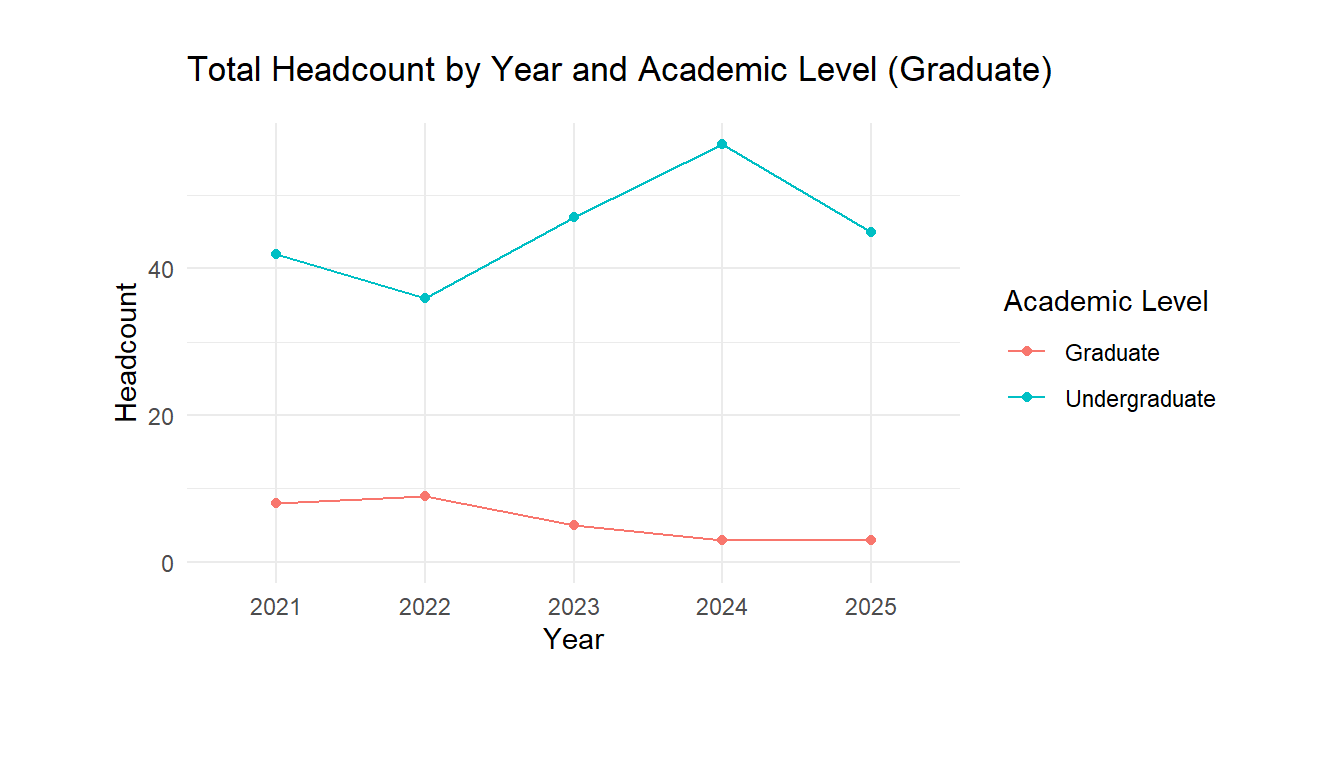
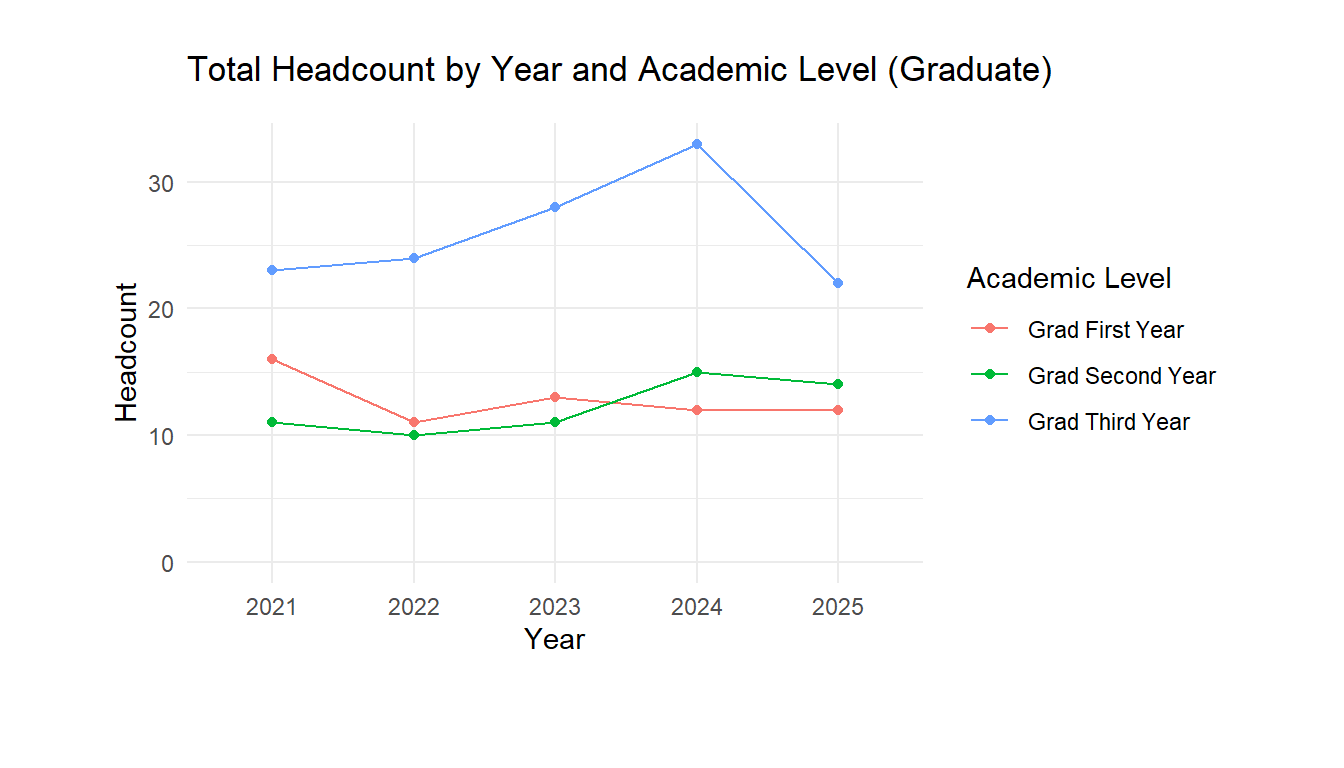
publish to docs/

diff --git a/docs/Undergraduate.html b/docs/Undergraduate.html
@@ -216,7 +216,7 @@ ul.task-list li input[type="checkbox"] {
 <div class="cell" data-dplyr.summarise.inform="false">
 <div class="cell-output-display">
 <table class="table caption-top table-sm table-striped small" data-quarto-postprocess="true">
-<caption>Enrollments Summary Table for Upcoming and Previous Semesters (Campus: Main Campus )</caption>
+<caption>Enrollments Summary Table for Upcoming and Previous Semesters (Campus: Neverland University )</caption>
 <colgroup>
 <col style="width: 14%">
 <col style="width: 14%">
@@ -229,50 +229,74 @@ ul.task-list li input[type="checkbox"] {
 <thead>
 <tr class="header">
 <th data-quarto-table-cell-role="th" style="text-align: left; empty-cells: hide; border-bottom: hidden;"></th>
-<th colspan="3" data-quarto-table-cell-role="th" style="text-align: center; border-bottom: hidden; padding-bottom: 0; padding-left: 3px; padding-right: 3px;"><div style="border-bottom: 1px solid #ddd; padding-bottom: 5px; ">
+<th colspan="2" data-quarto-table-cell-role="th" style="text-align: center; border-bottom: hidden; padding-bottom: 0; padding-left: 3px; padding-right: 3px;"><div style="border-bottom: 1px solid #ddd; padding-bottom: 5px; ">
 Headcount
 </div></th>
-<th colspan="3" data-quarto-table-cell-role="th" style="text-align: center; border-bottom: hidden; padding-bottom: 0; padding-left: 3px; padding-right: 3px;"><div style="border-bottom: 1px solid #ddd; padding-bottom: 5px; ">
+<th data-quarto-table-cell-role="th" style="text-align: center; border-bottom: hidden; padding-bottom: 0; padding-left: 3px; padding-right: 3px;"><div style="border-bottom: 1px solid #ddd; padding-bottom: 5px; ">
+Percent
+</div></th>
+<th colspan="2" data-quarto-table-cell-role="th" style="text-align: center; border-bottom: hidden; padding-bottom: 0; padding-left: 3px; padding-right: 3px;"><div style="border-bottom: 1px solid #ddd; padding-bottom: 5px; ">
 Credit Hours
+</div></th>
+<th data-quarto-table-cell-role="th" style="text-align: center; border-bottom: hidden; padding-bottom: 0; padding-left: 3px; padding-right: 3px;"><div style="border-bottom: 1px solid #ddd; padding-bottom: 5px; ">
+Percent
 </div></th>
 </tr>
 <tr class="even">
 <th style="text-align: left;" data-quarto-table-cell-role="th">Academic Level</th>
-<th style="text-align: left;" data-quarto-table-cell-role="th">2024 Headcount</th>
-<th style="text-align: left;" data-quarto-table-cell-role="th">2025 Headcount</th>
+<th style="text-align: right;" data-quarto-table-cell-role="th">Fall 2024 Headcount</th>
+<th style="text-align: right;" data-quarto-table-cell-role="th">Fall 2025 Headcount</th>
 <th style="text-align: left;" data-quarto-table-cell-role="th">Percent Change HDCT</th>
-<th style="text-align: left;" data-quarto-table-cell-role="th">2024 Credit Hours</th>
-<th style="text-align: left;" data-quarto-table-cell-role="th">2025 Credit Hours</th>
+<th style="text-align: right;" data-quarto-table-cell-role="th">Fall 2024 Credit Hours</th>
+<th style="text-align: right;" data-quarto-table-cell-role="th">Fall 2025 Credit Hours</th>
 <th style="text-align: left;" data-quarto-table-cell-role="th">Percent Change Hours</th>
 </tr>
 </thead>
 <tbody>
 <tr class="odd">
-<td style="text-align: left;">Undergraduate Total</td>
-<td style="text-align: left;">478</td>
-<td style="text-align: left;">458</td>
-<td style="text-align: left;"><span style="color:red;">-4.18%</span></td>
-<td style="text-align: left;">9,529</td>
-<td style="text-align: left;">9,417</td>
-<td style="text-align: left;"><span style="color:red;">-1.18%</span></td>
+<td style="text-align: left;">Freshman</td>
+<td style="text-align: right;">252</td>
+<td style="text-align: right;">221</td>
+<td style="text-align: left;"><span style="color:red;">-12.30%</span></td>
+<td style="text-align: right;">2657</td>
+<td style="text-align: right;">2380</td>
+<td style="text-align: left;"><span style="color:red;">-10.43%</span></td>
 </tr>
 <tr class="even">
-<td style="text-align: left;">NA</td>
-<td style="text-align: left;">47</td>
-<td style="text-align: left;">26</td>
-<td style="text-align: left;"><span style="color:red;">-44.68%</span></td>
-<td style="text-align: left;">922</td>
-<td style="text-align: left;">718</td>
-<td style="text-align: left;"><span style="color:red;">-22.13%</span></td>
+<td style="text-align: left;">Sophomore</td>
+<td style="text-align: right;">204</td>
+<td style="text-align: right;">231</td>
+<td style="text-align: left;"><span style="color:green;">13.24%</span></td>
+<td style="text-align: right;">2144</td>
+<td style="text-align: right;">2416</td>
+<td style="text-align: left;"><span style="color:green;">12.69%</span></td>
 </tr>
 <tr class="odd">
-<td style="text-align: left;">NA</td>
-<td style="text-align: left;">431</td>
-<td style="text-align: left;">432</td>
-<td style="text-align: left;"><span style="color:green;">0.23%</span></td>
-<td style="text-align: left;">8,607</td>
-<td style="text-align: left;">8,699</td>
-<td style="text-align: left;"><span style="color:green;">1.07%</span></td>
+<td style="text-align: left;">Junior</td>
+<td style="text-align: right;">221</td>
+<td style="text-align: right;">201</td>
+<td style="text-align: left;"><span style="color:red;">-9.05%</span></td>
+<td style="text-align: right;">2340</td>
+<td style="text-align: right;">2179</td>
+<td style="text-align: left;"><span style="color:red;">-6.88%</span></td>
+</tr>
+<tr class="even">
+<td style="text-align: left;">Senior</td>
+<td style="text-align: right;">230</td>
+<td style="text-align: right;">229</td>
+<td style="text-align: left;"><span style="color:red;">-0.43%</span></td>
+<td style="text-align: right;">2388</td>
+<td style="text-align: right;">2442</td>
+<td style="text-align: left;"><span style="color:green;">2.26%</span></td>
+</tr>
+<tr class="odd">
+<td style="text-align: left;">Undergraduate Total</td>
+<td style="text-align: right;">907</td>
+<td style="text-align: right;">882</td>
+<td style="text-align: left;"><span style="color:red;">-2.76%</span></td>
+<td style="text-align: right;">9529</td>
+<td style="text-align: right;">9417</td>
+<td style="text-align: left;"><span style="color:red;">-1.18%</span></td>
 </tr>
 </tbody>
 </table>

diff --git a/docs/online.html b/docs/online.html
@@ -214,7 +214,7 @@ ul.task-list li input[type="checkbox"] {
 <div class="cell" data-dplyr.summarise.inform="false">
 <div class="cell-output-display">
 <table class="table caption-top table-sm table-striped small" data-quarto-postprocess="true">
-<caption>Enrollments Summary Table for Upcoming and Previous Semesters (Campus: Main Campus )</caption>
+<caption>Enrollments Summary Table for Upcoming and Previous Semesters (Campus: Neverland University )</caption>
 <colgroup>
 <col style="width: 14%">
 <col style="width: 14%">
@@ -227,59 +227,65 @@ ul.task-list li input[type="checkbox"] {
 <thead>
 <tr class="header">
 <th data-quarto-table-cell-role="th" style="text-align: left; empty-cells: hide; border-bottom: hidden;"></th>
-<th colspan="3" data-quarto-table-cell-role="th" style="text-align: center; border-bottom: hidden; padding-bottom: 0; padding-left: 3px; padding-right: 3px;"><div style="border-bottom: 1px solid #ddd; padding-bottom: 5px; ">
+<th colspan="2" data-quarto-table-cell-role="th" style="text-align: center; border-bottom: hidden; padding-bottom: 0; padding-left: 3px; padding-right: 3px;"><div style="border-bottom: 1px solid #ddd; padding-bottom: 5px; ">
 Headcount
 </div></th>
-<th colspan="3" data-quarto-table-cell-role="th" style="text-align: center; border-bottom: hidden; padding-bottom: 0; padding-left: 3px; padding-right: 3px;"><div style="border-bottom: 1px solid #ddd; padding-bottom: 5px; ">
+<th data-quarto-table-cell-role="th" style="text-align: center; border-bottom: hidden; padding-bottom: 0; padding-left: 3px; padding-right: 3px;"><div style="border-bottom: 1px solid #ddd; padding-bottom: 5px; ">
+Percent
+</div></th>
+<th colspan="2" data-quarto-table-cell-role="th" style="text-align: center; border-bottom: hidden; padding-bottom: 0; padding-left: 3px; padding-right: 3px;"><div style="border-bottom: 1px solid #ddd; padding-bottom: 5px; ">
 Credit Hours
+</div></th>
+<th data-quarto-table-cell-role="th" style="text-align: center; border-bottom: hidden; padding-bottom: 0; padding-left: 3px; padding-right: 3px;"><div style="border-bottom: 1px solid #ddd; padding-bottom: 5px; ">
+Percent
 </div></th>
 </tr>
 <tr class="even">
 <th style="text-align: left;" data-quarto-table-cell-role="th">Student Courses Are...</th>
-<th style="text-align: left;" data-quarto-table-cell-role="th">2024 Headcount</th>
-<th style="text-align: left;" data-quarto-table-cell-role="th">2025 Headcount</th>
+<th style="text-align: right;" data-quarto-table-cell-role="th">Fall 2024 Headcount</th>
+<th style="text-align: right;" data-quarto-table-cell-role="th">Fall 2025 Headcount</th>
 <th style="text-align: left;" data-quarto-table-cell-role="th">Percent Change HDCT</th>
-<th style="text-align: left;" data-quarto-table-cell-role="th">2024 Credit Hours</th>
-<th style="text-align: left;" data-quarto-table-cell-role="th">2025 Credit Hours</th>
+<th style="text-align: right;" data-quarto-table-cell-role="th">Fall 2024 Credit Hours</th>
+<th style="text-align: right;" data-quarto-table-cell-role="th">Fall 2025 Credit Hours</th>
 <th style="text-align: left;" data-quarto-table-cell-role="th">Percent Change Hours</th>
 </tr>
 </thead>
 <tbody>
 <tr class="odd">
+<td style="text-align: left;">All Online</td>
+<td style="text-align: right;">342</td>
+<td style="text-align: right;">307</td>
+<td style="text-align: left;"><span style="color:red;">-10.23%</span></td>
+<td style="text-align: right;">3611</td>
+<td style="text-align: right;">3276</td>
+<td style="text-align: left;"><span style="color:red;">-9.28%</span></td>
+</tr>
+<tr class="even">
 <td style="text-align: left;">Partially Online</td>
-<td style="text-align: left;">175</td>
-<td style="text-align: left;">178</td>
-<td style="text-align: left;"><span style="color:green;">1.71%</span></td>
-<td style="text-align: left;">3,655</td>
-<td style="text-align: left;">3,676</td>
+<td style="text-align: right;">347</td>
+<td style="text-align: right;">346</td>
+<td style="text-align: left;"><span style="color:red;">-0.29%</span></td>
+<td style="text-align: right;">3655</td>
+<td style="text-align: right;">3676</td>
 <td style="text-align: left;"><span style="color:green;">0.57%</span></td>
 </tr>
-<tr class="even">
+<tr class="odd">
 <td style="text-align: left;">Not Online</td>
-<td style="text-align: left;">177</td>
-<td style="text-align: left;">150</td>
-<td style="text-align: left;"><span style="color:red;">-15.25%</span></td>
-<td style="text-align: left;">3,532</td>
-<td style="text-align: left;">3,492</td>
+<td style="text-align: right;">343</td>
+<td style="text-align: right;">325</td>
+<td style="text-align: left;"><span style="color:red;">-5.25%</span></td>
+<td style="text-align: right;">3532</td>
+<td style="text-align: right;">3492</td>
 <td style="text-align: left;"><span style="color:red;">-1.13%</span></td>
 </tr>
-<tr class="odd">
-<td style="text-align: left;">Total</td>
-<td style="text-align: left;">538</td>
-<td style="text-align: left;">506</td>
-<td style="text-align: left;"><span style="color:red;">-5.95%</span></td>
-<td style="text-align: left;">10,798</td>
-<td style="text-align: left;">10,444</td>
-<td style="text-align: left;"><span style="color:red;">-3.28%</span></td>
-</tr>
 <tr class="even">
-<td style="text-align: left;">NA</td>
-<td style="text-align: left;">186</td>
-<td style="text-align: left;">178</td>
-<td style="text-align: left;"><span style="color:red;">-4.30%</span></td>
-<td style="text-align: left;">3,611</td>
-<td style="text-align: left;">3,276</td>
-<td style="text-align: left;"><span style="color:red;">-9.28%</span></td>
+<td style="text-align: left;">Total</td>
+<td style="text-align: right;">1032</td>
+<td style="text-align: right;">978</td>
+<td style="text-align: left;"><span style="color:red;">-5.23%</span></td>
+<td style="text-align: right;">10798</td>
+<td style="text-align: right;">10444</td>
+<td style="text-align: left;"><span style="color:red;">-3.28%</span></td>
 </tr>
 </tbody>
 </table>

diff --git a/docs/Graduate.html b/docs/Graduate.html
@@ -256,21 +256,30 @@ Credit Hours
 </tr>
 <tr class="even">
 <td style="text-align: left;">NA</td>
-<td style="text-align: left;">3</td>
-<td style="text-align: left;">3</td>
+<td style="text-align: left;">12</td>
+<td style="text-align: left;">12</td>
 <td style="text-align: left;"><span style="color:green;">0.00%</span></td>
-<td style="text-align: left;">108</td>
-<td style="text-align: left;">98</td>
-<td style="text-align: left;"><span style="color:red;">-9.26%</span></td>
+<td style="text-align: left;">284</td>
+<td style="text-align: left;">228</td>
+<td style="text-align: left;"><span style="color:red;">-19.72%</span></td>
 </tr>
 <tr class="odd">
 <td style="text-align: left;">NA</td>
-<td style="text-align: left;">57</td>
-<td style="text-align: left;">45</td>
-<td style="text-align: left;"><span style="color:red;">-21.05%</span></td>
-<td style="text-align: left;">1,161</td>
-<td style="text-align: left;">929</td>
-<td style="text-align: left;"><span style="color:red;">-19.98%</span></td>
+<td style="text-align: left;">15</td>
+<td style="text-align: left;">14</td>
+<td style="text-align: left;"><span style="color:red;">-6.67%</span></td>
+<td style="text-align: left;">368</td>
+<td style="text-align: left;">315</td>
+<td style="text-align: left;"><span style="color:red;">-14.40%</span></td>
+</tr>
+<tr class="even">
+<td style="text-align: left;">NA</td>
+<td style="text-align: left;">33</td>
+<td style="text-align: left;">22</td>
+<td style="text-align: left;"><span style="color:red;">-33.33%</span></td>
+<td style="text-align: left;">617</td>
+<td style="text-align: left;">484</td>
+<td style="text-align: left;"><span style="color:red;">-21.56%</span></td>
 </tr>
 </tbody>
 </table>
